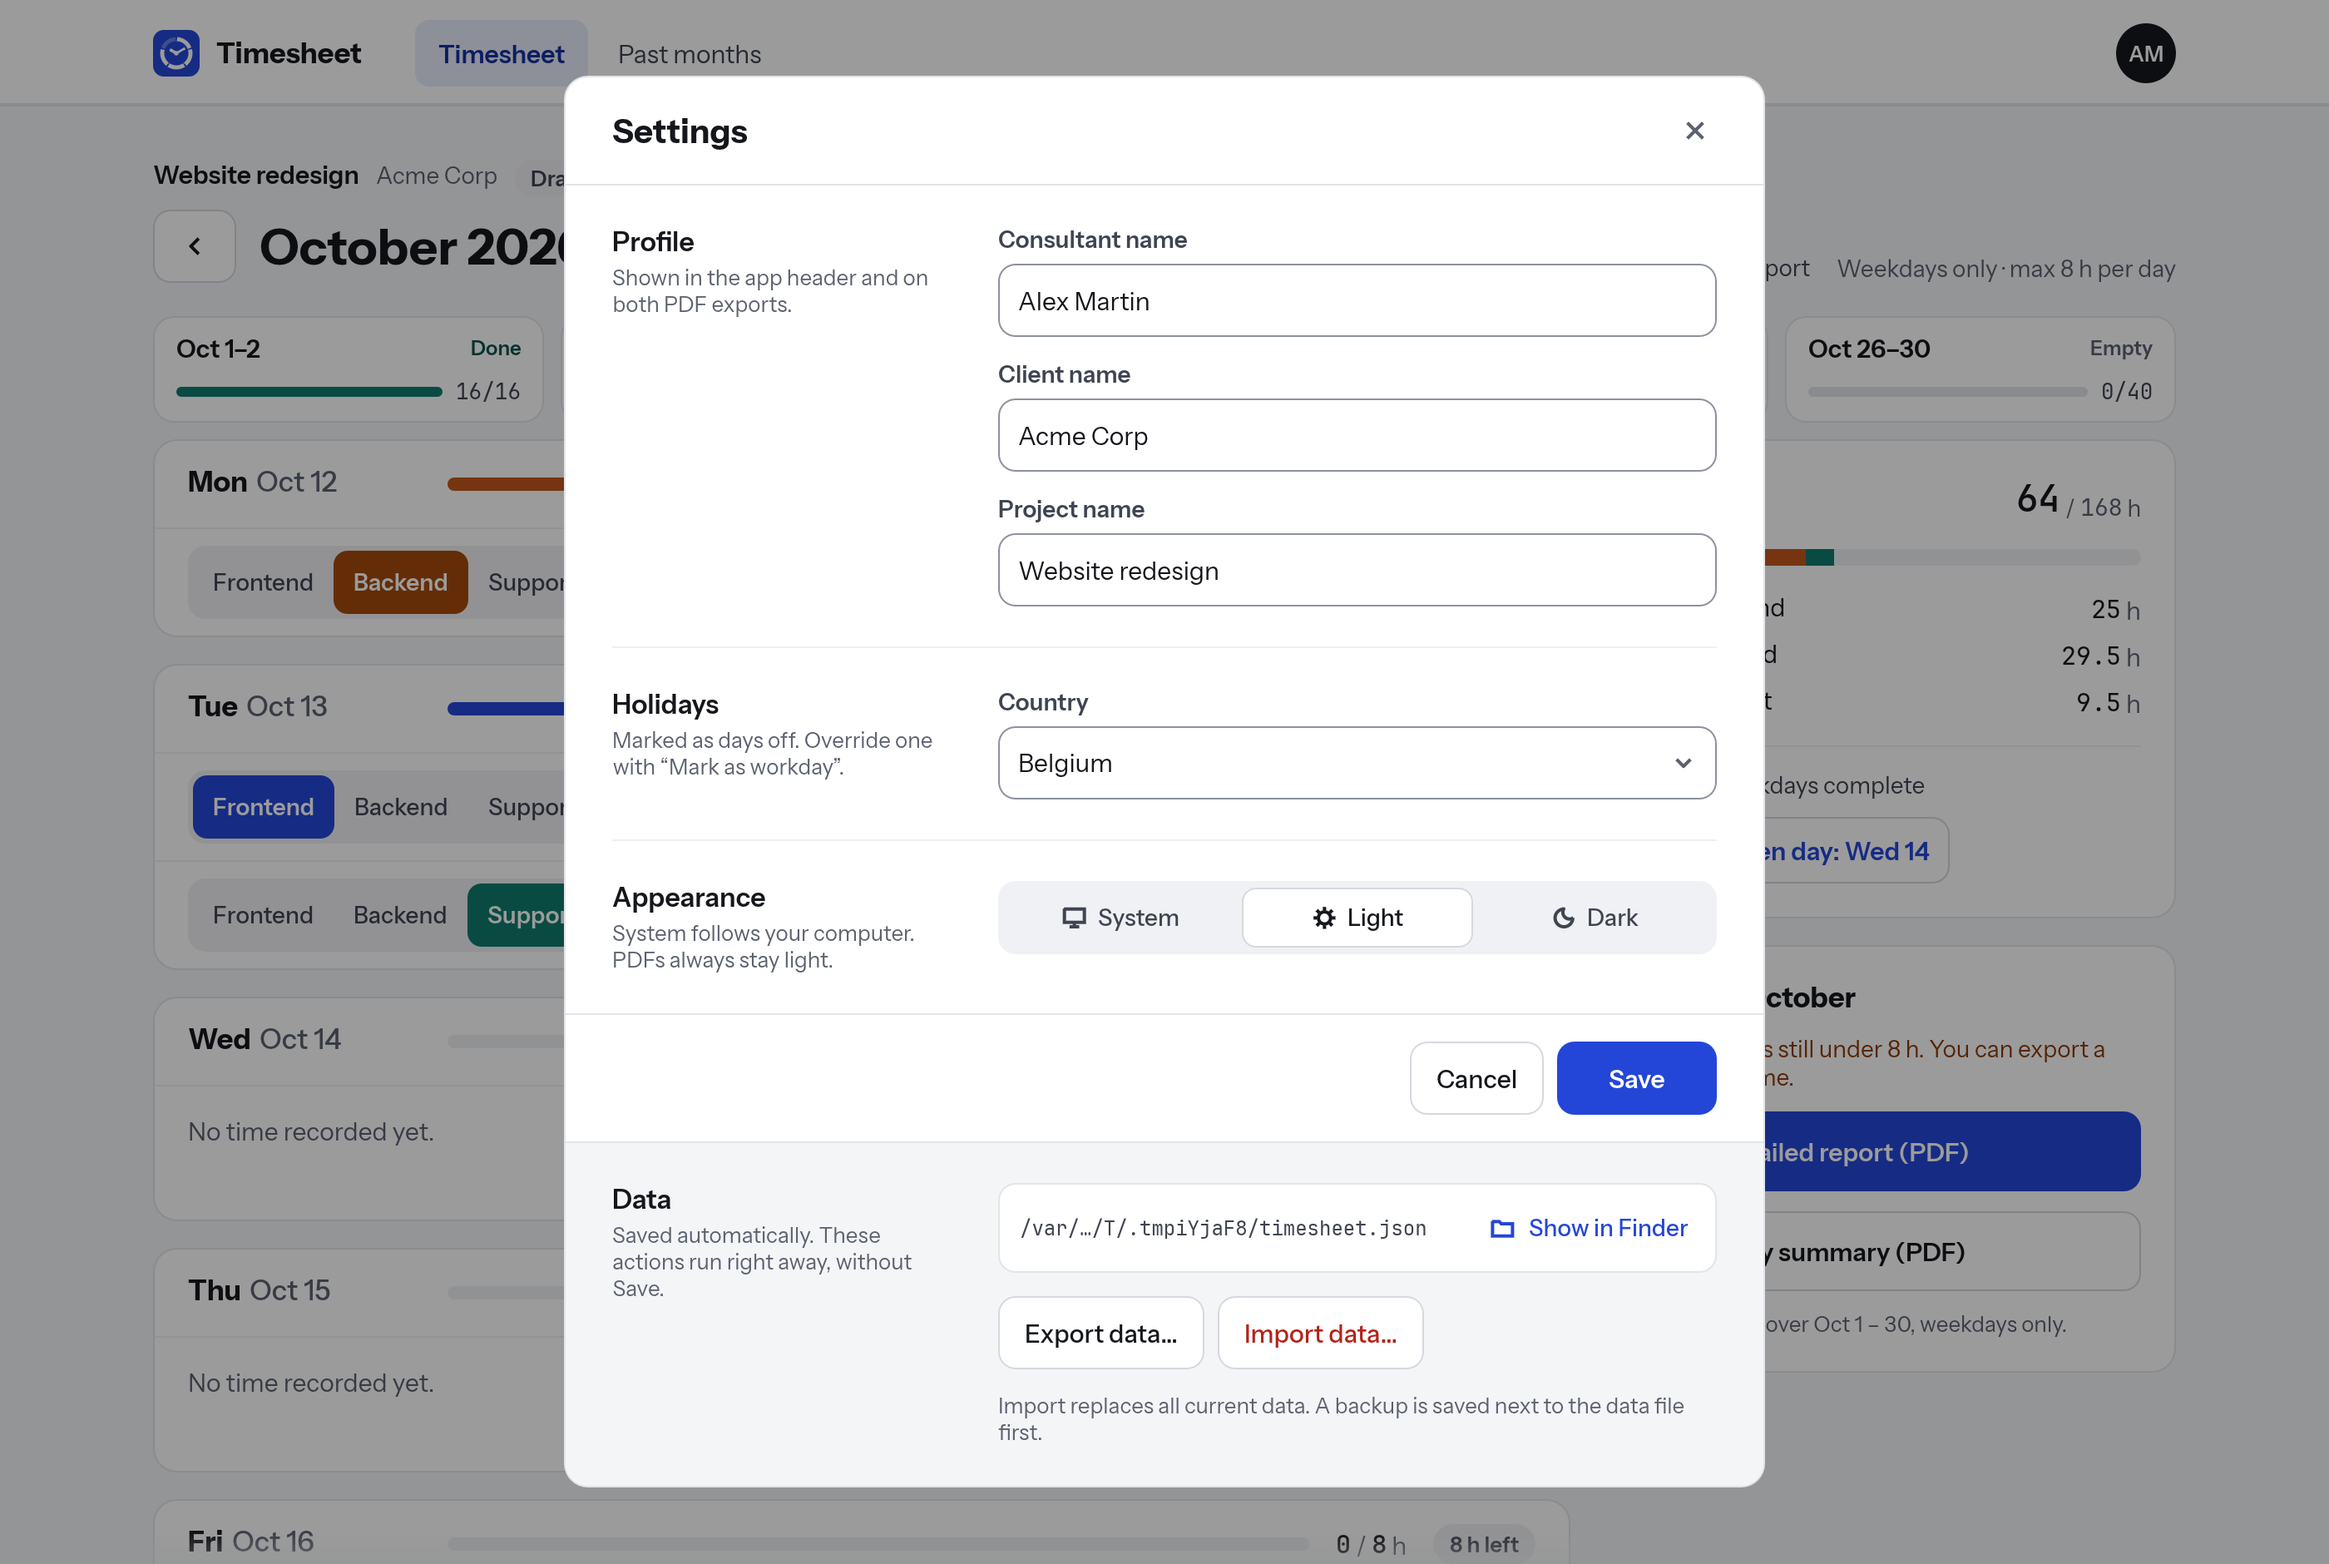
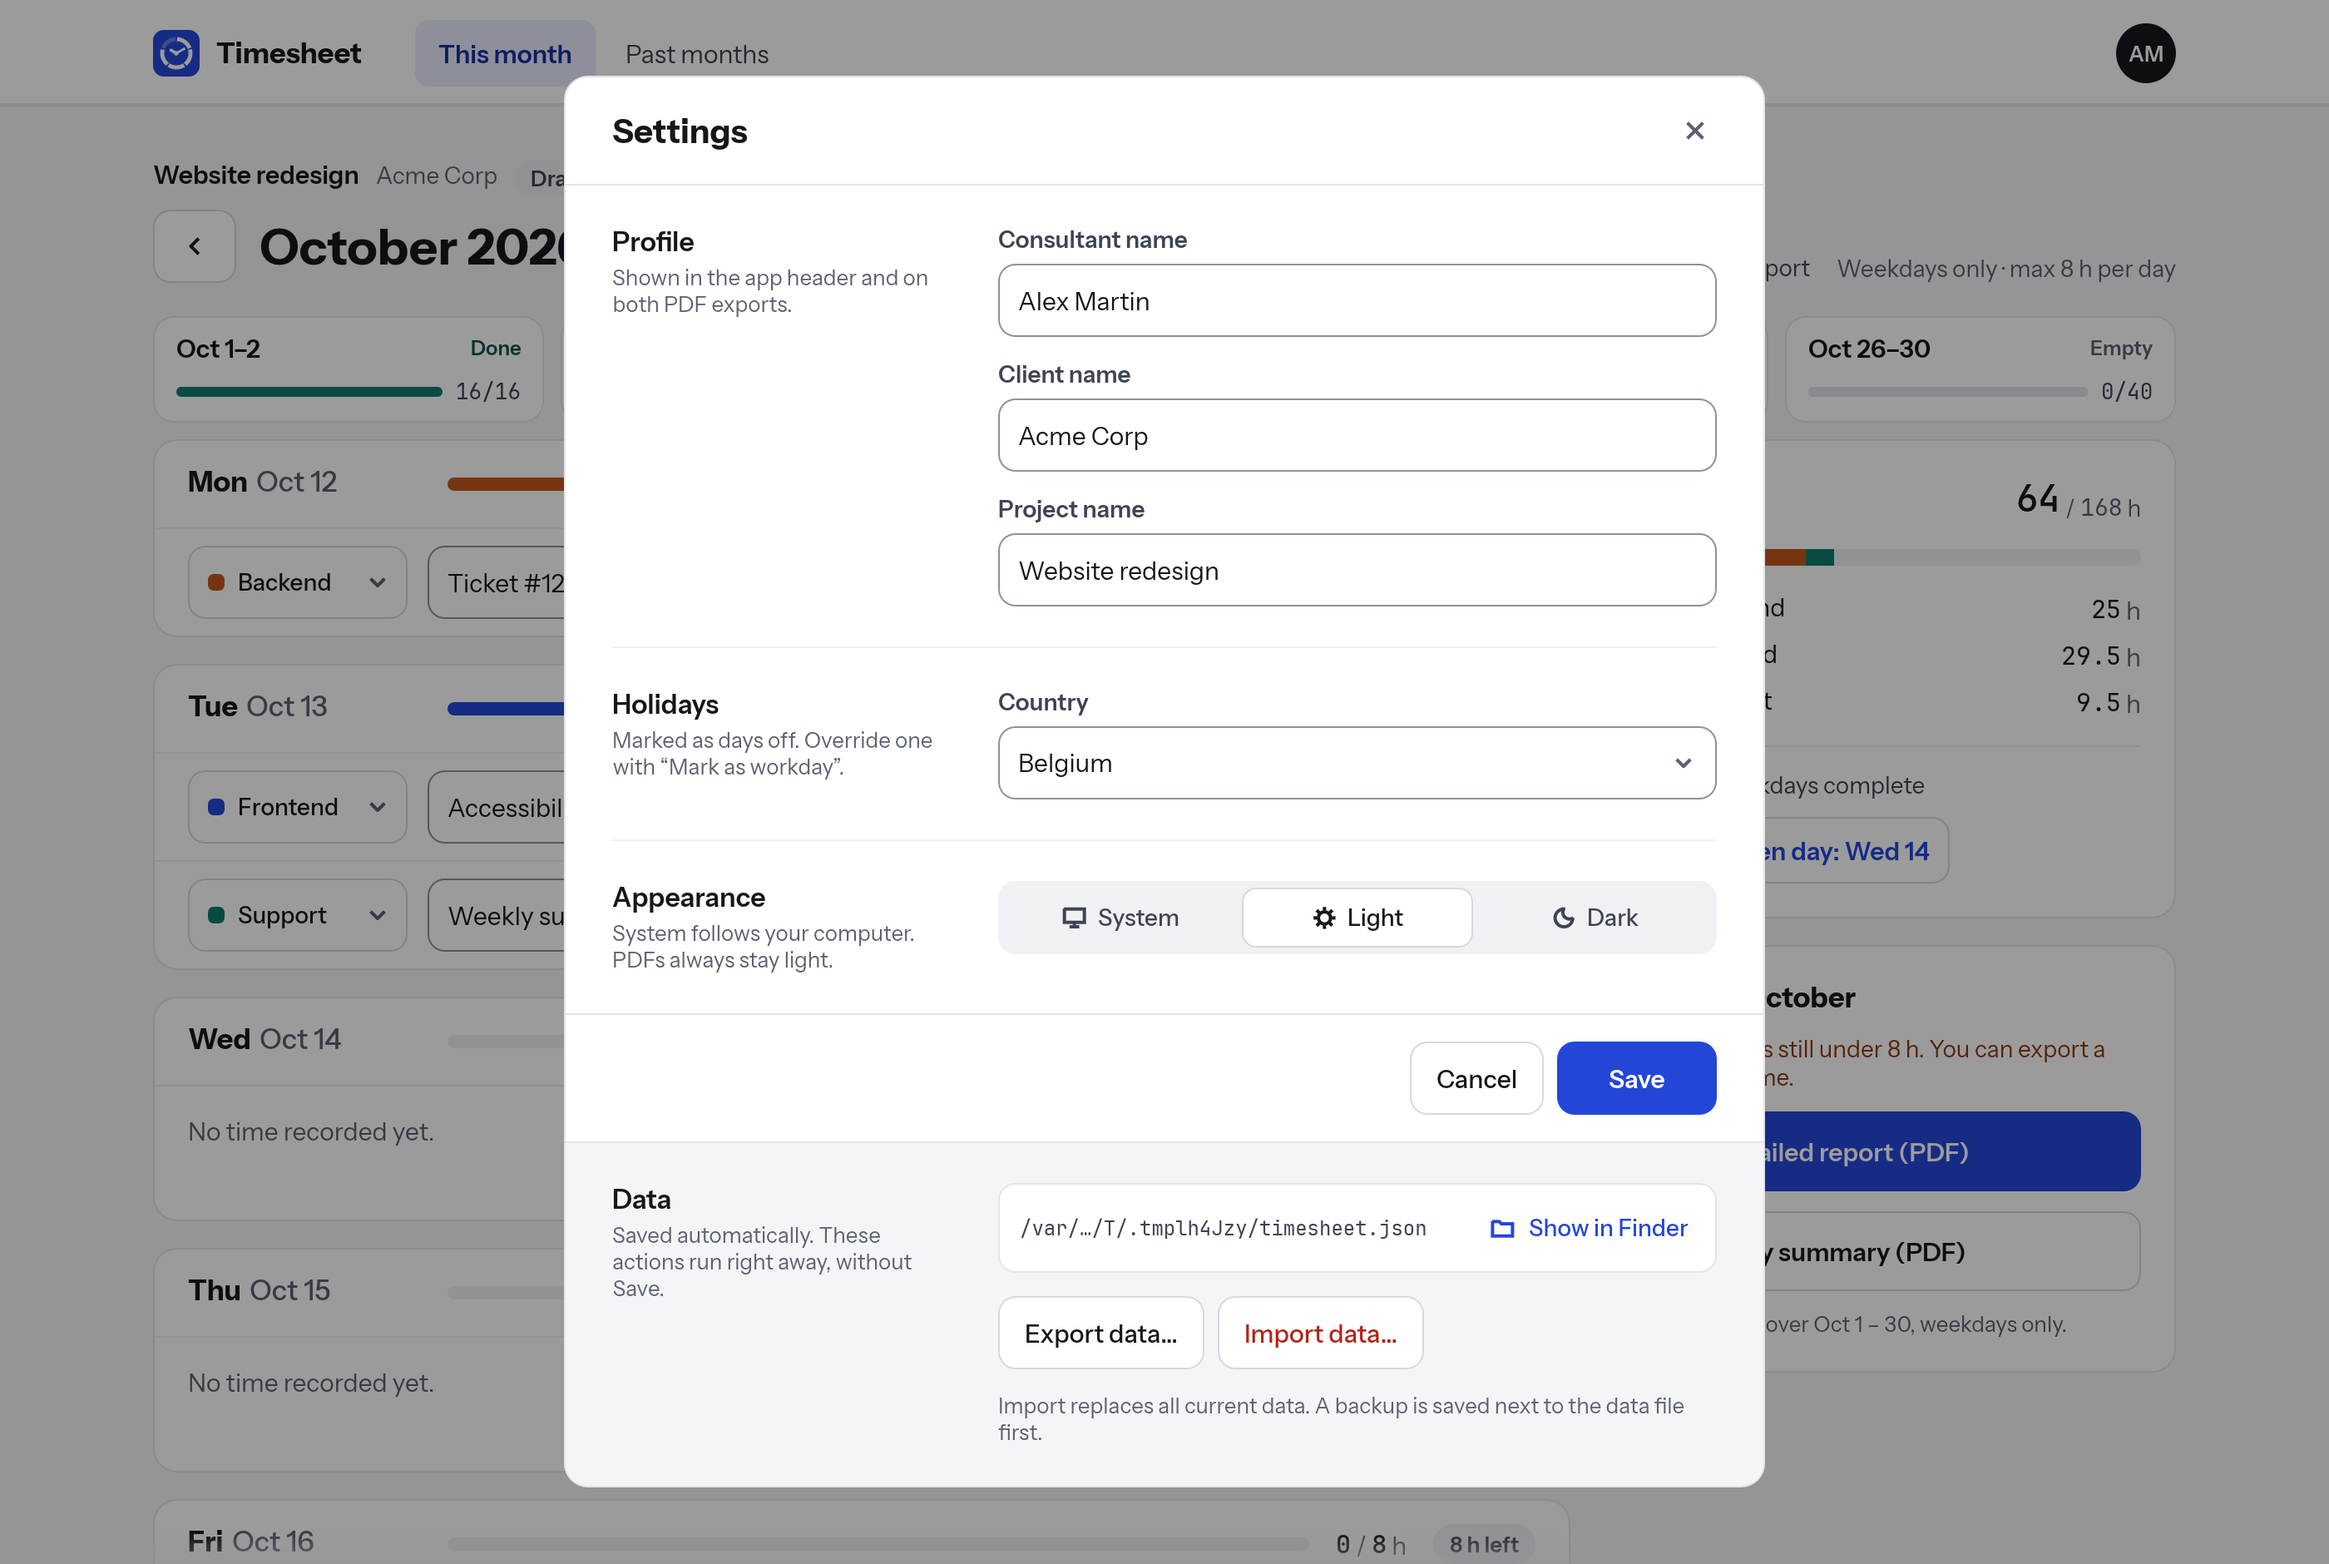
fix(ui): rename Timesheet tab to This month
The app name and the first tab both read "Timesheet" in the header.

diff --git a/src/ui/mod.rs b/src/ui/mod.rs
@@ -310,7 +310,7 @@ impl App {
                 ui.add_space(22.0);
                 ui.spacing_mut().item_spacing.x = 4.0;
                 for (view, label) in [
-                    (View::Timesheet, "Timesheet"),
+                    (View::Timesheet, "This month"),
                     (View::PastMonths, "Past months"),
                 ] {
                     let on = self.view == view;
